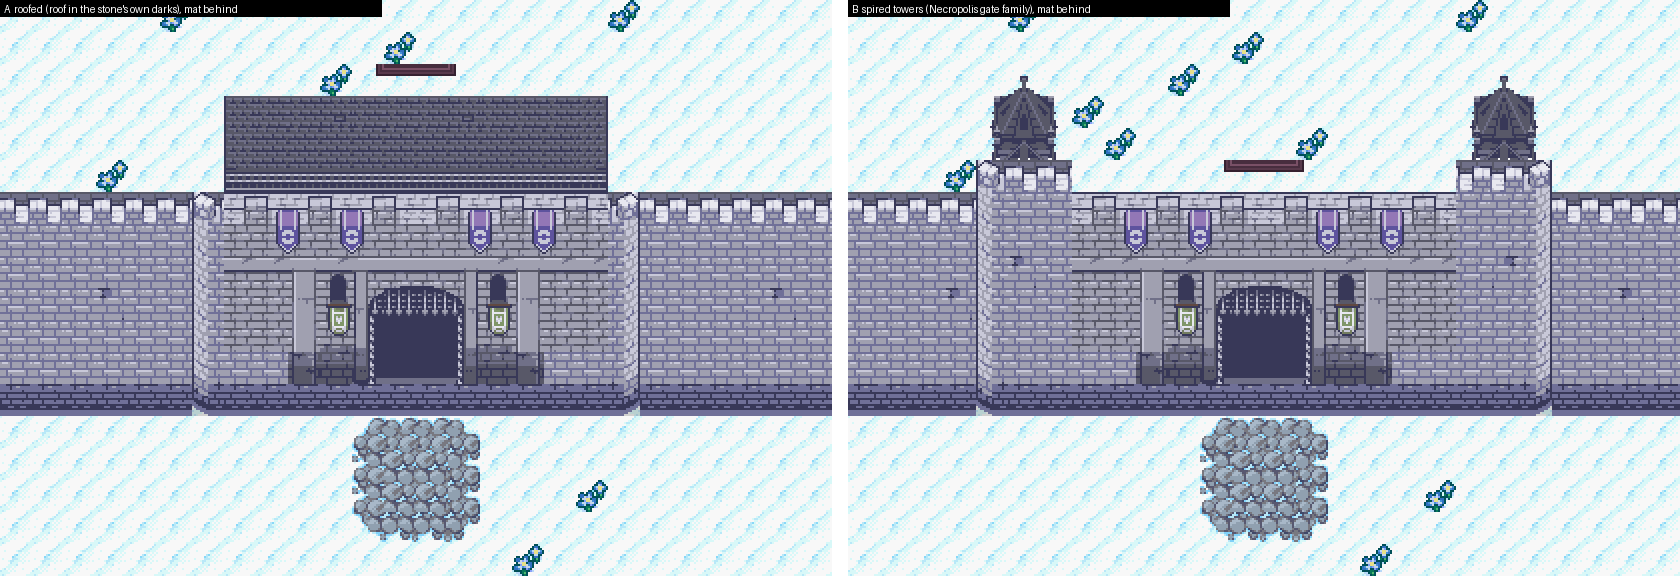
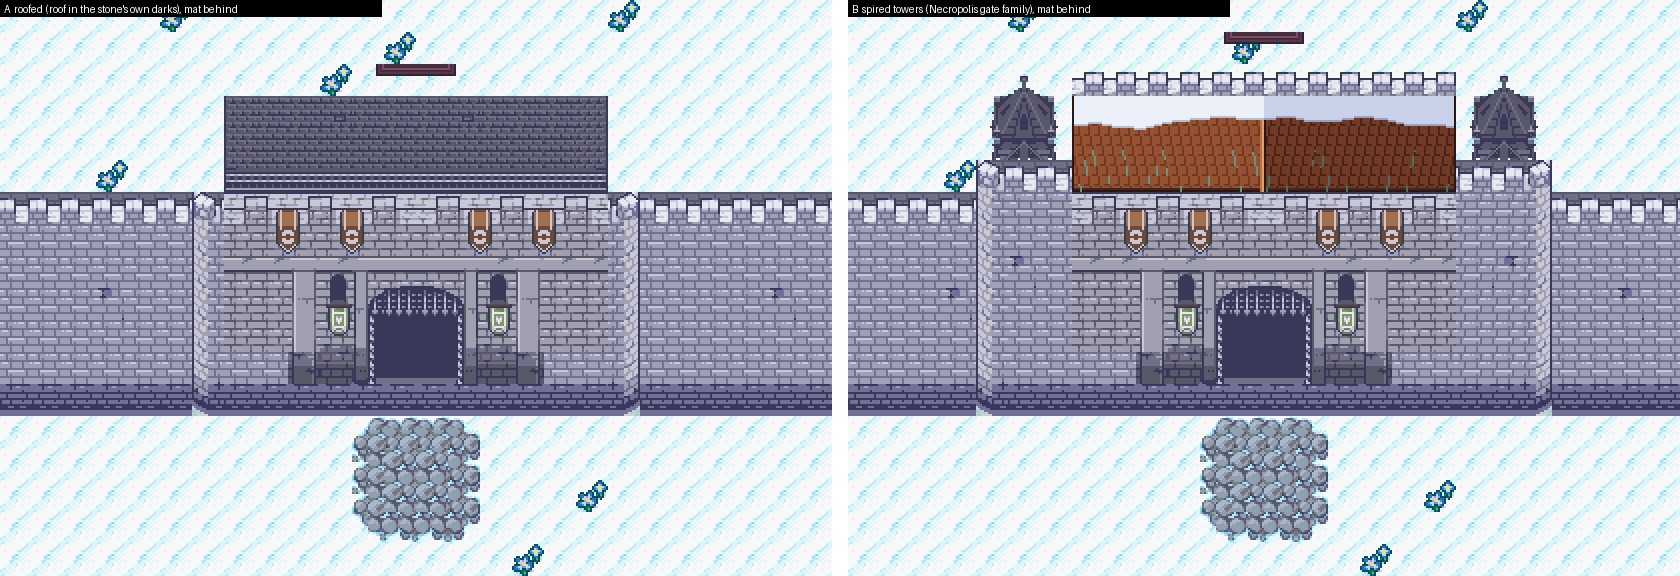
Mirroh: towered gatehouses with a copper roof; copper as Mirroh's colour
Both gatehouses in the towered style (spired towers), a pitched copper roof with snow between the towers (after Crown's cathedral). Copper (Mirroh's and House Langerin's colour, user) on the banners, the chapel roof, Langerin's roof, the far-door mat. Buildings in the lower town and the sacred terrace moved for the wider gates. Bible updated.

Claude-Session: https://claude.ai/code/session_01FHXnfqnedTHLf5QFbB3MCU

diff --git a/tools/art/mirroh/mirroh_v3.py b/tools/art/mirroh/mirroh_v3.py
@@ -45,12 +45,57 @@ def to_ef(img):
     out[col] = gloom(img, 0.25)[col]
     return out
 
+# ------------------------------------------------------------------ copper: Mirroh's colour, House Langerin's crest's
+COPPER = ((44, 22, 20), (74, 36, 26), (112, 58, 36), (150, 82, 48), (186, 112, 66), (222, 160, 108))
+PATINA = ((70, 112, 100), (96, 150, 132))
+def copper_tone(img):
+    """Anything to copper by lightness (the crest's colour)."""
+    l = _lum(img.astype(float)) / 255.0
+    lo, hi = np.array(COPPER[0], float), np.array(COPPER[5], float)
+    return (lo + (hi - lo) * np.clip((l - 0.12) / 0.75, 0, 1)[..., None]).astype(np.uint8)
+
+def to_mirroh(img):
+    """Crown's stone restoned (to_ef), its purple banners in copper."""
+    out = to_ef(img); f = img.astype(int)
+    purple = (f[..., 2] > f[..., 1] + 30) & (f[..., 0] > f[..., 1] + 10)
+    out[purple] = copper_tone(img)[purple]
+    return out
+
+def copper_roof(w, h, seed='roof'):
+    """A pitched copper roof seen from above, its ridge running back from the middle (the way the roof of Crown's
+    cathedral runs back between its towers): standing seams leaning down each slope, staggered joints, the lit west
+    slope and the shaded east one, a bright ridge, a little verdigris in the seams near the eaves. w, h in pixels."""
+    img = np.zeros((h, w, 3), np.uint8); mid = w // 2
+    for y in range(h):
+        for x in range(w):
+            west = x < mid; d = (mid - 1 - x) if west else (x - mid)
+            k = (d + y // 5) % 5                     # seams lean outward as they run down the slope
+            base, seam = (COPPER[3], COPPER[2]) if west else (COPPER[2], COPPER[1])
+            c = seam if k == 0 or (y % 5 == 4 and k in (1, 2)) else base
+            if y >= h - 2: c = COPPER[1] if y == h - 2 else COPPER[0]          # the eave
+            if k == 0 and y > h * 0.55 and rnd(seed, x // 3, y // 4) < 0.18:
+                c = PATINA[1] if west else PATINA[0]
+            img[y, x] = c
+        img[y, mid - 1] = COPPER[5]; img[y, mid - 2] = COPPER[4]; img[y, mid] = COPPER[0]
+        img[y, 0] = img[y, w - 1] = COPPER[0]
+    # snow lying on its upper slopes: a soft drift edge (depth varying smoothly along the roof), shaded east
+    knots = [10 + 7 * rnd(seed, 'k', i) for i in range(w // 12 + 2)]
+    for x in range(1, w - 1):
+        i, t = divmod(x, 12); t /= 12.0
+        depth = int(knots[i] * (1 - t) + knots[i + 1] * t)
+        for y in range(min(depth + 1, h - 3)):
+            west = x < w // 2
+            c = (236, 240, 248) if west else (200, 210, 232)
+            if y == depth: c = (176, 190, 216) if west else (150, 160, 192)
+            img[y, x] = c
+    return img
+
 # ------------------------------------------------------------------ the plan: levels
 L = np.zeros((H, W), int)                         # 0 outside; 1 lower town; 2 the square; 3 the sacred terrace
 def level(l, x0, y0, x1, y1): L[y0:y1 + 1, x0:x1 + 1] = l
 level(1, 3, 0, 56, 50)
-level(2, 7, 0, 53, 33)
-level(3, 23, 0, 50, 15)
+level(2, 6, 0, 53, 33)
+level(3, 25, 0, 50, 15)
 FACES = {1: 5, 2: 2, 3: 2}                         # face rows under each level's crenels (the city wall is tall)
 
 # ------------------------------------------------------------------ ground
@@ -173,7 +218,7 @@ def gatehouse(M, x0, ycren, style='roof', far_mat=False, tone=None):
     for dy in range(7):
         for dx in range(12):
             m = int(c[36 + dy, 20 + dx])
-            t = ef(0x21e) if dy == 6 else ef(0x20e) if m == 0x66 else to_ef(cr(m))   # (its moat-dark course: wall)
+            t = ef(0x21e) if dy == 6 else ef(0x20e) if m == 0x66 else to_mirroh(cr(m))   # (its moat-dark course: wall)
             M.ground(x0 + tw + dx, ycren + dy, t, 'gate')
     xr = x0 + tw + 12
     if style == 'roof':
@@ -199,7 +244,15 @@ def gatehouse(M, x0, ycren, style='roof', far_mat=False, tone=None):
                     if side: M.ground(xs + 2 - dx, ycren - 1 + dy, fx(ef(m)), 'gate')
                     else: M.ground(xs + dx, ycren - 1 + dy, ef(m), 'gate')
             _spires(M, xs, ycren - 4, side)
-        mx, my = x0 + 7, ycren - 1
+        # between the towers: the back wall's crenels (snow on them), then a copper roof running down to the front
+        # walk (Crown's cathedral: a pitched roof between its spired towers)
+        for dx in range(12):
+            M.ground(x0 + 3 + dx, ycren - 4, ef(0x206), 'gate')
+        roof = copper_roof(12 * 16, 3 * 16)
+        for dy in range(3):
+            for dx in range(12):
+                M.ground(x0 + 3 + dx, ycren - 3 + dy, roof[dy * 16:dy * 16 + 16, dx * 16:dx * 16 + 16], 'gate')
+        mx, my = x0 + 7, ycren - 5
     if far_mat:
         mat(M, mx, my, 4, tone or crimson_tone)
 
@@ -253,7 +306,21 @@ def chapel(M, x0, y0):
             0x6f, 0x77, 0x18, 0x19, 0x10, 0x11, 0x12, 0xc, 0xd, 0x2e, 0x2f, 0x36, 0x37)
     b = cut('c32', 26, 1, 9, 12, ground=C32G, ring=False, rows=[1, 2, 3, 4, 7, 8, 9, 10, 11, 12, 13, 14])
     for dx in range(3, 6): b[0][dx] = b[1][dx] = None   # (above the roof's peak: the cathedral's woods, not ours)
-    M.place(b, x0, y0, 'chapel', fn=lambda i: to_ef(slate_roof(i)))
+    M.place(b, x0, y0, 'chapel', fn=copper_roofs)
+
+def copper_roofs(img):
+    """Crown's verdigris-green roofs to Mirroh's copper (a touch of the green kept in the darkest seams); the rest
+    restoned."""
+    f = img.astype(int); green = (f[..., 1] > f[..., 0] + 28) & (f[..., 1] > f[..., 2] + 12)   # (the roof, not its green-grey stone)
+    out = to_ef(slate_roof(img)); cu = copper_tone(img); out[green] = cu[green]
+    return out
+
+def langerin(M, x0, y0):
+    """House Langerin's town house: Crown's long townhouse, its slate roof in the family's copper."""
+    def tone(i):
+        f = i.astype(int); blue = (f[..., 2] > f[..., 0] + 18)
+        out = gloom(i, keep_snow=False); out[blue] = copper_tone(i)[blue]; return out
+    M.place(cut('c33', 15, 10, 7, 6), x0, y0, 'house', fn=tone)
 
 def fence(M, x0, x1, y, gaps=()):
     mm.fence(M, x0, x1, y, gaps)
@@ -292,7 +359,7 @@ def compose():
     # yard in the square. L3 snowier than L2 (deeper uphill).
     for l, snows in ((2, [blob(14, 24, 4, 3, 'a'), blob(48, 13, 2, 4, 'b'), blob(12, 13, 3, 2, 'c'),
                           rrect_cells(22, 21, 38, 31, 3), blob(44, 30, 3, 1, 'd'), blob(20, 31, 3, 1, 'e')]),
-                     (3, [blob(33, 7, 6, 5, 'gy'), blob(46, 13, 3, 1, 'f'), blob(26, 13, 2, 1, 'g')])):
+                     (3, [blob(36, 7, 5, 6, 'gy'), blob(46, 13, 3, 1, 'f'), blob(26, 13, 2, 1, 'g')])):
         cells = lv(l); S = set()
         for b in snows: S |= b
         S = thick(S & cells)
@@ -315,7 +382,7 @@ def compose():
     C &= lv(1)
     cobbles(M, C)
     # a small frozen pond by the cottages (the same ice, its snow drifting onto it)
-    pond = rect(18, 45, 22, 47); pondyard = rect(16, 43, 24, 49) - rect(24, 43, 24, 43)
+    pond = rect(17, 45, 19, 47); pondyard = rect(15, 43, 21, 49)
     snow_on(M, thick(pondyard - pond), icef, pondyard, 'snow')
     for c in pond: M.gtag[c[1], c[0]] = 'ice'
     # --- L0 (outside): the cobbled way up from Hollow Hill to the south gatehouse
@@ -325,28 +392,28 @@ def compose():
     walls(M)
     stair(M, 15, 33); stair(M, 44, 33)                               # lower town -> square
     stair(M, 37, 15)                                                 # square -> sacred terrace
-    gatehouse(M, 24, 50, far_mat=True)                                 # south, from Hollow Hill
-    gatehouse(M, 8, 3)                                               # north-west, to the mountain
+    gatehouse(M, 22, 50, style='towers', far_mat=True, tone=lambda i: copper_tone(i))   # south, from Hollow Hill
+    gatehouse(M, 7, 4, style='towers')                               # north-west, to the mountain
     necro_gate(M, 39, 0)                                             # north-east, to the Necropolis
 
     # --- L3: the chapel, its graveyard loose among small pines on the snow, the way to the Necropolis gate
-    chapel(M, 24, 1)
-    graves = [(34, 2), (37, 3), (34, 5), (37, 6), (34, 9), (37, 10), (40, 12), (47, 12), (48, 10)]
+    chapel(M, 26, 1)
+    graves = [(36, 2), (38, 4), (36, 6), (38, 8), (36, 10), (40, 12), (43, 13), (47, 12), (48, 10)]
     for x, y in graves: mm.headstone(M, x, y)
-    for x, y in ((36, 7), (45, 12)): mm.pine(M, x, y, False)
+    for x, y in ((38, 11), (45, 12)): mm.pine(M, x, y, False)
     # --- L2: the Tavern (west), House Langerin's town house between its gargoyles (east), benches by the ice
     mm.tavern(M, 9, 22)
-    mm.c33_house(M, 'long', 43, 21); mm.gargoyle(M, 41, 24); mm.gargoyle(M, 50, 24)
+    langerin(M, 43, 21); mm.gargoyle(M, 41, 24); mm.gargoyle(M, 50, 24)
     for x, y in ((24, 30), (36, 30)): bench(M, x, y)
     for x, y in ((12, 12), (17, 25)): mm.pine(M, x, y, False)
     # --- L1: cottages west, the market east (Crown's shop and a townhouse), barrels, a bench
-    mm.ef_house(M, 5, 43); mm.c33_house(M, 'small', 11, 43)
-    mm.c33_house(M, 'shop', 46, 43); mm.c33_house(M, 'long', 37, 43)
-    mm.barrels(M, 51, 47); mm.barrels(M, 44, 47); mm.barrels(M, 44, 48); bench(M, 26, 44)
-    for x, y in ((17, 43), (53, 44), (4, 33), (55, 34)): mm.pine(M, x, y, False)
+    mm.ef_house(M, 4, 43); mm.c33_house(M, 'small', 9, 43)
+    mm.c33_house(M, 'shop', 49, 43); mm.c33_house(M, 'long', 41, 43)
+    mm.barrels(M, 54, 46); mm.barrels(M, 48, 48); mm.barrels(M, 54, 47); bench(M, 26, 44)
+    for x, y in ((20, 43), (4, 33), (55, 34)): mm.pine(M, x, y, False)
     for x, y in ((4, 2), (54, 6), (4, 19), (54, 23)): mm.pine(M, x, y, True)
     for x, y in ((6, 11), (55, 15), (5, 27)): rock(M, x, y)
-    fence(M, 5, 16, 49, gaps=(9,)); fence(M, 45, 54, 49, gaps=(49,))
+    fence(M, 4, 14, 49, gaps=(9,)); fence(M, 41, 54, 49, gaps=(47,))
     # --- L0: the slope outside, pines in clumps, rocks under the snow
     for x0, y0 in ((0, 2), (57, 4), (0, 15), (57, 18), (0, 28), (57, 31), (0, 41), (57, 44), (1, 56), (54, 56),
                    (8, 58), (18, 57), (38, 58), (47, 57), (24, 59), (34, 59)):
@@ -358,7 +425,7 @@ def compose():
         if M.free(x, y, 1, 1): rock(M, x, y)
     # --- lamps: at every stair's foot, the gates, the Tavern's and Langerin's doors, along the street
     for x, y in ((13, 37), (17, 37), (42, 37), (46, 37), (35, 12), (39, 12), (28, 41), (35, 41), (27, 57), (34, 57),
-                 (22, 10), (38, 10), (49, 11), (19, 28), (47, 27), (7, 41), (52, 41)):
+                 (13, 11), (19, 11), (49, 11), (19, 28), (47, 27), (7, 41), (52, 41)):
         if M.free(x, y, 1, 2, ground=('snow', 'pave', 'cobble')): mm.lamp(M, x, y)
         else: print('no room for a lamp at', x, y)
     return M

diff --git a/bible/20_chapter1_build.md b/bible/20_chapter1_build.md
@@ -181,7 +181,7 @@ Chapter 1 is the template: once its foundations (mechanics, maps, buildings, NPC
 - **The ice path and the church after the blast (user design 2026-11-19), built (stage 1 + the stage-3 puzzle, user: the two combined for this piece).** **The church after Eden's blast** is a second layout of the same hall map (`LAYOUT_PELLUCA_TEMPLAR_HALL_RUINED`), swapped in by the hall's on-transition script once **`FLAG_DR_CHURCH_BLASTED`** is set (the blast scene, stage 4): the split through the gold medallion with frost round it, the old fault's cracks in wall and carpet, the cracked stained glass (three in the great window, one across the girl's face; two in each lancet) and the cell doorway caved in under MonoMyth's Mt. Thunder rubble (`blast_mock.py`, approved); no long crack from the rubble to the split (tried, dropped, user: unnatural and not needed). Everything else plays as the intact hall: its collision, its exit, and its side tables' tops over the player, read from the intact layout. The four split cells drop the player (Mt. Pyre's fall-through-the-hole) onto the ice path's landing; the cell door is dead and the fallen stone in front of it solid. **The ice path** (`PellucaIcePath`, 16x24, `icepath_mock.py`, approved): the landing, the 12x9 thin-ice field (86 ice cells, 22 ice boulders, a unique route from the landing to the gate), the ice wall and its gate, and the shrine: the half-thawed Arceus statue between the fossilised log benches, fire rings and blue flowers, and the three stone tusk arches like a ribcage before it. **The puzzle** runs on vanilla's Sootopolis-gym step callback (`STEP_CB_SOOTOPOLIS_ICE`, `VAR_ICE_STEP_COUNT`), which `src/field_tasks.c` now points at this map's own cracked/broken metatiles on this layout (`METATILE_PellucaIcePath_*`, written by the build into `metatile_labels.h`; the Sootopolis row-var bookkeeping kept to the gym). All 86 cracked (count 87): the gate's ice gives way (`SE_ICE_STAIRS`), the field refreezes solid (special `DrIcePathFreeze`: safe ice, no behaviour) and **`FLAG_DR_ICE_PATH_SOLVED`** is set; a second step on a cracked cell: the ice breaks, the player drops through, black screen, back on the landing with a fresh field. Every full load of the map rebuilds a fresh field and count when unsolved (special `DrIcePathReset`; a continued save would otherwise restore cracked cells in view), and the solved state (gate open, refrozen field) when solved. **Ways out:** the ladder in the shrine's corner, and (added in the build, so the player is never stuck before solving) **the Templars' rope** hanging beside the landing; both bring the player up just south of the split (hall warp 2). The ribs stand free: only each leg's foot is solid, the rest of each rib is drawn over the player, so he walks under and between them. Map type underground. Flags: `FLAG_DR_CHURCH_BLASTED` = 0x901, `FLAG_DR_ICE_PATH_SOLVED` = 0x902. Built by `tools/art/icepath/build_icepath.py` and `tools/art/templar/build_ruined.py` (with `imgtiles.py`; `tools/art/academy/tilefit.py` merges the statue's rarest near-shades so each 8x8 tile fits one palette, no visible change); `CHURCH_TEST_BLASTED=1` builds a test ROM that sets the flag on entering the hall. **Verified in the emulator** (test build): city -> ruined hall -> the cell door blocked -> into the split -> the landing; a second step on a cracked cell -> reset to the landing; the rope up and back down; the solution walked -> gate open, field refrozen -> the shrine -> the ladder up -> back down the split: still solved, the field crossed back and forth without falling. Normal build: the intact hall unchanged (city -> hall -> cell -> hall -> city; the split cells inert). *Stage 3-4, still to do:* the blast scene that sets the flag, the Templar's remark on the cold, the Sparkling Opal and the discovery, the Archbishop's scene, the leave-the-Valley block, dialogue for the fall (the field's black-out is silent for now).
 - **The shrine's awakening and the Sparkling Opal (user design 2026-11-20), built.** With the field solved, **pressing A on the Arceus statue** awakens the holy power of the site: dramatic music starts at the touch (**Rayquaza Appears**, `MUS_RAYQUAZA_APPEARS`; user: something awe-inspiring), a rumble, **the ice melts off the statue** (five frames, a little meltwater left at its foot), **the seal breaks in a holy flash** (fade to white and back) with **Arceus's cry echoing** (the cry's chorus mode under a heavy mixer reverb: specials `DrPlayEchoCry` / `DrEndEchoCry`), **the two fire rings beside the logs light** one after the other in **holy sapphire-and-white flame** (user's pick over warm firelight; animated, four frames on dedicated tiles: `InitTilesetAnim_PellucaIcePath`), and the music ends. Then Osrid (portrait, his private nameplate): "Something fell down out of the ice... Could this be...!!", and **"Osrid found the Sparkling Opal!"** with the key-item fanfare and its description popup. The statue stays thawed and the fires lit (`FLAG_DR_STATUE_AWAKENED` = 0x909, restored on every load). **Sparkling Opal** (`ITEM_SPARKLING_OPAL`, key item): its bag icon drawn in `awaken_mock.py` (a milky opal with a rainbow patchwork of play of colour, user); bag text (three lines fit): "Fell from the ice of / an Arceus statue. It / shimmers as if alive." (the user's description, "A gleaming opal that fell from the ice around an ancient Arceus statue. Its colours shift as if alive.", is too long for the bag window; it can be the text when the item is first shown or examined). **What happens to it (user 2026-11-20, canon):** when the player goes back up and shows it to **Archbishop Ambrose**, he gives them the **Warding Ring** with massive enthusiasm (a key item that, worn, keeps wild Pokémon away: a Repel switched on and off at will): Sparkling Opals appear only where Arceus has set foot in the material realm, the Templars have sought one for centuries, and this is the first physical proof of Arceus found in centuries as far as he knows. The player also gets the bravery reward (Never-Melt Ice / Metal Coat / Soft Sand). Stage 4: the scene; the Ring's mechanic to be built with it. **Ice path music (user):** the cave plays **MonoMyth's Old Headquarters theme** (Old Town's Old HQ, where the gang leader with the Bug Pokémon is fought): MonoMyth song 677 ported note for note by `tools/monomyth/port_song.py` (tracks, the voices it uses, its two samples; credit MonoMyth) as `MUS_DR_OLD_HQ` (song 631). **Church crack** (user): the long fresh crack from the cell rubble to the split is gone. Built by `build_icepath.py` with `awaken_mock.py` (melt frames, flames, icon); the statue's cells across all the melt frames share 26 colours (`tilefit.reduce_joint`) so the room still fits 13 palettes. **Verified in the emulator** (test build): the cave plays the Old HQ theme; A on the statue plays the whole sequence (music switches to Rayquaza Appears and back, the melt, the flash, both fires, the line, the item into Key Items); leaving and coming back: statue thawed, fires lit and flickering (four distinct frames).
 - **Route 11 and Hollow Hill: layouts approved (user 2026-11-20).** **Route 11** (45x30, west from Pelluca's west road): Pelluca's pines and cobble road carry on at the east end (the seam to Pelluca uses Pelluca's own Cormoria tiles), farmland in the middle (a thatched farmhouse with a fenced yard, cabbage rows, a sown field, hay; fenced flower rows and tall grass south of the road), tan cliffs stepping down along the north, a cliff-flanked little cove on the south coast, and at the west end the road becomes a dirt track into cooler dark woods running on into Hollow Hill (the Eiscue scene on that track). Art: Crown's seaside farm village (3.1) and dark woods (3.25), Odyssey's farm (0.232); Pisces' Brumist Cliffs / Zotpyre Village (snowy in the ROM) and Odyssey's terraced hill as layout ideas. **Hollow Hill** (about 50x50; **its theme (approved by the user 2026-11-20, "perfect"):** Ghost Grey's Route 1 theme re-arranged as `MUS_DR_HOLLOW_HILL` by `tools/music/arrange_hollow_hill.py`: slowed from 124 to 64 bpm, on the soft pedal piano, no percussion, with a ghostly far-off voice echoing the tune (a sine tone first, heard as beeps: replaced) (wind was tried and taken out: it came across as static) in the bars where the song falls quiet; credit Ghost Grey): woods rising in three rings, each a cliff step up, to a central rock knoll; the path in from Route 11 climbs the rings by stairs to **the sealed tunnel door** at the knoll's foot; the north exit to Mirroh leaves from the outer ring (Glaive there); the Eiscue and the 1v2 on the outer ring; **very foggy, with a generally spooky, unsettling feeling** (user 2026-11-20). **The summit is late-game** (unlocked only with Valkeerin/Keerin in the party; the trip to the distant future and the Red fight happen there; 19_location_atlas.md). **Hollow Hill will be revisited and added to over the whole game** (many secrets, met in pieces): its layout and its tileset keep room for more (hidden burrow mouths placed now as scenery that can later open, the summit area behind the sealed door, spare palette and tile room in its tileset). **Revision (user 2026-11-20, after the first mock):** Route 11 is **about twice as long (about 90x30)**; the **Ivy River's thin western branch** (as on the illustrated region map, coming down from the north past the Necropolis just west of Pelluca) **crosses Route 11 near its Pelluca end and runs down to the beach and the sea; the road crosses it on a bridge**; the **grass shifts gradually** from Pelluca's light mint to the darker temperate greens of Hollow Hill's woods (shades reaching into each other in patches, as MonoMyth's and Crown's route boundaries do; tree kinds mixing before they change). Design rule: no tree or object ever cut, stacked into another or bleeding into buildings, cliffs or water (docs/chapter1_workflow.md). **Mock v2 (2026-11-20):** the river drops through a chasm in three falls (the middle one under the bridge), over the coastal cliff into a rock pool, and a stream bends west over the sand to the sea; the beach is a cove between cliff walls, split by the stream. **Steps down to the west beach (user 2026-11-20)** are cut into the coastal cliff just west of the bridge (stone stairs, two wide: Pelluca's own stair tiles, as in its sea wall): the beach holds **at least one trainer**, and more may go there later. The east beach (between the stream and Pelluca's pines) has no way down yet: **revisit later (user 2026-11-20).** **Built (2026-11-20):** `MAP_ROUTE11` (layout 90x40: five rows of woods, the chasm and the sea added above and below the approved picture, out of the player's reach, so the camera never shows past the edge), connected to Pelluca's west road (Route 11's road rows 19-21 = Pelluca's 28-30). Its own secondary tileset (`gTileset_Route11`, 7 palettes: grass, broadleaf woods, farm, cottage and hay, bridge, cliffs, river and pines on sage) under Pelluca's primary; Pelluca's own metatiles wherever a cell is one. Crowns of trees are walked behind; tall grass is tall grass (no encounter table yet: stage 5); the river in the chasm is solid, the stream and the sea need Surf. **Story gate (provisional):** stepping onto Pelluca's west edge is stopped with Osrid's line ("Cadmus told me to meet him at the church..." after the blast, a general line before it) until the shrine is awakened; stage 4 sets the real condition. **Music (user 2026-11-20):** MonoMyth's Route 15 theme (`MUS_DR_MM_ROUTE15`): a classic Pokémon route theme, reworked, a bright contrast before spooky Hollow Hill. Credit: MonoMyth (its music). **Pelluca Valley's main theme (user 2026-11-20):** Pokémon Crown's route theme (its song 292, `MUS_DR_CROWN_PELLUCA`), replacing Lilycove's, **in the piano version the user chose** (`MUS_DR_CROWN_PELLUCA_PIANO`: our pedal piano for its guitar, harp, clarinet and flute, standalone; the original as ported was removed, user: the remix is better). Credit: Pokémon Crown (its music). **Cold-open music (user 2026-11-20):** MonoMyth's "A Legend Unfolds" (`MUS_DR_LEGEND_UNFOLDS`; in MonoMyth it plays when Fabrizia's museum in North Edelweiss tells the legend of Athanto's Pokémon) plays from Tenebris's notes through Cadmus's letter until Osrid docks in Pelluca, replacing "Far Horizons". Credit: MonoMyth (its music). **Loops checked in the game (2026-11-20):** Pelluca's theme, Route 11's, the cold open's and Hollow Hill's each play through their loop point and come back in step with their loop start (every track loops at the same point). **Sound engine (2026-11-20):** 12 sampled voices instead of 5, as MonoMyth uses (the songs from MonoMyth and Crown play up to 10-12 notes at once; with 5 they cut each other off). **Hollow Hill mock v3 (user 2026-11-20: "quite good"):** `tools/art/hollowhill/hh_mock.py`, renders in `assets/hollowhill_reference/`. Art: Pokémon Odyssey's haunted forest (its maps 0.94/0.95/0.97: teal floor, dark pines, dead trees, stumps, logs, red mushrooms, dark tall grass, burrow hollows, grey stone terraces and stairs, the sealed blue door); credit Odyssey. Layout 66x64 (the hill about 40x37; the extra width is the east edge, where Route 11's olive ground and Crown woods darken and mix into the teal and the pines over about ten columns; Route 11's row = Hollow Hill's row - 24, its track on rows 43-45). Ring edges drawn by Odyssey's own terrace grammar, two bands per ring, three for the knoll. **The way through (user 2026-11-20):** the woods floor is closed into sections by trees running up to the cliffs (north-west corner, north, east, south), and ring 2 reaches out west and east to ring 1's edge, cutting ring 1 into a north and a south half, so **the player can never go round the hill: from Route 11 up ring 1, up ring 2 (the sealed door, or over), down the north side to the north woods and the exit to Mirroh.** Eight stairs, four per ring (south faces, and north edges with the steps drawn down-facing) link the sections: the clearing (Eiscue, the 1v2) is its own section with its own stairs; the north-east woods are a dead-end pocket (room for an item or a secret). The mock checks this each run: with ring 2's stairs closed the north is out of reach; with ring 1's closed the woods sections do not join. The void pits with red eyes were dropped (they read as ponds). **Later (user 2026-11-20):** Hollow Hill keeps being worked on through the game, e.g. **a cool ruined structure on the top**, since it truly is an ancient and arguably cursed place. **Colours (user 2026-11-20):** the woods and their floor an **off-white, creepy bone** (Odyssey's pines, floor and tall grass recoloured one for one), the cliffs a **sinister stone, dark and light mixed** (near-black violet shade, charcoal faces, bone-pale lit edges), so Hollow Hill stands out even in the fog; trunks, red mushrooms and the sealed door's cold blue kept. At the east edge Route 11's green woods pale toward bone over three columns of trees (`hh_mock.py` BONE, tint). **Built (2026-11-20):** `MAP_HOLLOW_HILL` (layout 66x64; `tools/art/hollowhill/build_hollowhill.py` from `hh_mock.py`, mock v8), connected to Route 11's west edge (Hollow Hill's row = Route 11's + 24; the track on rows 43-45). **The seam:** Hollow Hill's columns 58-65 are Route 11's own columns 1-8 (the same blocks; its woods' pattern carried up above Route 11's top), and its tileset (`gTileset_HollowHill`, under Pelluca's primary) keeps Route 11's 24 seam metatiles, their 69 tiles and its two palettes (grass, broadleaf woods: slots 6-7) at the same ids, numbers and slots, so each map draws the other's edge right. Its own: 208 metatiles, 437 tiles, 5 palettes (floor, pines and wood, stone and blood, Crown's woods paled, the door and mushrooms). **The tiles are nearly full** (4 of 512 spare): the webs and the blood are built as repeating pieces (a few drip and blot patterns, one garland per spacing of trees) to fit; later additions (the ruins on top, burrows that open) are best as their own maps behind the sealed door and the burrows, or by trimming the webs/the olive-to-bone shades. Cliffs solid, stairs walkable, tree crowns walked behind, webs drawn over the player, the dark tufts are tall grass (no encounter table yet: stage 5). Weather `WEATHER_FOG_HORIZONTAL`, **thinned for Hollow Hill** (src/field_weather_effect.c: 6/16 over 13/16 instead of 12/16 over 8/16, so the bone woods are not washed out; other foggy maps unchanged); music `MUS_DR_HOLLOW_HILL`; `MAPSEC_DR_HOLLOW_HILL`. The way north runs off the top edge (the Mirroh area is next; no connection yet). Walked in the emulator from Route 11 up both rings, to the door, down the north side to the way north, and to the clearing. **The Hollow Hill guardian (user 2026-11-20; a special quest later in the game):** the personification of the haunted energy that has gathered round Hollow Hill for many years, so strong it **reanimated the dead body of an Araquanid as its vessel**: a custom **undead Araquanid**, a blood bubble for its water bubble, a skull-like face, skeletal limbs and body. Still **Water/Bug**, ability **Water Bubble**; about **level 65**; exceptionally strong: starts the fight at **+1 Attack, Defense, Special Defense and Speed**. It holds the **Reaver's Fang**, which the player gets by defeating it. **Reaver's Fang (held item; user 2026-11-20):** (1) the holder heals **25% of the physical or special damage it deals**; (2) when an enemy's physical or special attack damages the holder, the holder **heals 25% of that damage and the same amount is dealt back to the attacker**; (3) recoil the holder inflicts on itself is lifestolen at 25% too (user, first description; no attacker to hit back). **One of the strongest held items in the game**, which is why it **cannot be had until after midgame** (the guardian's quest is post-midgame). The blood webs across Hollow Hill are signs of its power over the woods. **Not catchable** (user 2026-11-20): it is only cursed energy possessing and working the corpse of a dead Pokémon. **Art:** the user will help make the base art for the assistant to modify further, and may let the assistant try the design when the time comes. OPEN: a new form with its own stats or Araquanid with the boosts; the quest. **Unsettling throughout (user 2026-11-20):** the pines' bone shades go to a **sinister grey** in their depths; **blood-like stains** run down the cliffs from their tops and soak into the stone in blots (more round the sealed door); **Blood-red webbing in MonoMyth's Webbed Woods style, hung across the trees** (user 2026-11-20: a web on each tree looked strange; hang them across more of the trees, more naturally; webs on actual groups of trees, never in the open): sheets of web sag from tree to tree along the woods' edges (the north and south treelines, garlands from each crown to the next at about the same height, two or three threads deep, laced by MonoMyth's zig-zags, torn threads trailing), bulge out from tree to tree down the west woods' side and the trees closing the way east, link pines standing near each other or near a woods' edge (the pair on ring 1), MonoMyth's big sagging net across the narrow way north, small round webs only in the dead tree's branches and in the V between the trees closing the way south. Drawn a pixel at a time in the webbing's two colours (MonoMyth's, made old-blood red); the net is MonoMyth's (`web_net.png`, 0x886DD5C). Credit MonoMyth. **The blood webs mean something (user 2026-11-20):** they are signs of the **Hollow Hill guardian's** power over the woods (below).
-- **Mirroh (user 2026-11-20/21; zone plan v2, `tools/art/mirroh/layout_sketch.py`, `assets/mirroh_reference/`).** Where Crown's medieval architecture really starts. **A mix of a Crown village and MonoMyth's Fort Elderflower** (user): a **walled city climbing the slope** of the massif in three terraces (Elderflower's crenellated terrace walls that jog with the slope, stone stairs staggered so the way winds up), Crown's timber and thatch cottages with fenced gardens below. **Light snow in the lower town, deeper uphill. Gothic, gloomy and wintry:** roofs recoloured to dark slate, iron lanterns, Crown's dragon statues darkened to gargoyles, banners in House Langerin's colours, a graveyard. **Ghost Grey's Opal Village** (user: loves its reflecting ice; study its landscape and indoor/outdoor tiles): sheets of **reflecting ice** sunk in brick rims (one in the square, one in the lower town), **dark icy streets with sparkles**, snowbanks held by brick retaining walls; its houses and museum halls for the interiors (greyscale: to be coloured). Zones: outside the **south gate** Hollow Hill's bone woods carry on (the seam), thinning to snowy pines; **lower town** (cottages, gardens, ice sheet); **middle terrace**, the square (the **Tavern**, like Pelluca's, **recoloured to the dark slate look**, user; a market hall, stalls, the ice sheet); **upper terrace** (deep snow): a gothic chapel and its graveyard (the seed of DM's Mirroh Base Camp graveyard), **House Langerin's town house** (user: yes). **Two ways out north (user):** a **north-west path** further north out of town, and a **separate north-east path to the Necropolis** (its own map uphill). **Gatehouses (user 2026-11-21):** Mirroh is guarded: people may not come and go as they please. **Two walk-through gatehouse buildings with guards** (enter one side, pass the guards inside, leave by the other; interior maps): the **south gatehouse** between Hollow Hill and the city proper, and the **north-west gatehouse** on the route toward the mountain, the Templar HQ and beyond. The **north-east path to the Necropolis is open** (no gate; the Necropolis keeps its own entrance). **Plan approved by the user ("basically perfect").** **Gates, decided (user 2026-11-21):** the **south and north-west gatehouses are roofed gatehouse buildings** in the style of Ghost Grey's and Crown's walk-through gates (slate roof behind the crenels, a stone front with banners, a portcullis door between lanterns, round towers either side; Crown's castle gate restoned in Elderflower's stone). The south one's far door, on the city side, is **a short flight of steps up from the gatehouse** (the city is uphill; user: "yes"). Their **hallway maps** follow North Edelweiss's gate hallway (MonoMyth): a dark doorway at the top, a crimson runner, guard desks facing each other, benches and plants, the mat at the foot, in Mirroh's cold stone (`tools/art/mirroh/gate_hall.py`). **The north-east way to the Necropolis is a standalone skull gate** (user's idea: Elderflower's skull keep door, "rebuilt as a standalone gate with a new top"): the skull arch under a crenellated walk between two round towers capped with the gothic spires of Crown's cathedral; no guards; you walk through the dark arch onto the Necropolis map. **Mock v3 (2026-11-21, `tools/art/mirroh/mirroh_v3.py`):** the city as Elderflower-style terraces drawn from a level map (each terrace narrower than the one below, its own crenellated front wall with round-tower ends, parapets down its sides, its paving shaded under them), snow lying on the paving in drifts, the reflecting ice set in snowy yards (the snow drifting onto the ice, no rim), cobbled lanes in the lower town; every borrowed building cut out of its source cleanly (only the source's true ground removed).
+- **Mirroh (user 2026-11-20/21; zone plan v2, `tools/art/mirroh/layout_sketch.py`, `assets/mirroh_reference/`).** Where Crown's medieval architecture really starts. **A mix of a Crown village and MonoMyth's Fort Elderflower** (user): a **walled city climbing the slope** of the massif in three terraces (Elderflower's crenellated terrace walls that jog with the slope, stone stairs staggered so the way winds up), Crown's timber and thatch cottages with fenced gardens below. **Light snow in the lower town, deeper uphill. Gothic, gloomy and wintry:** roofs recoloured to dark slate, iron lanterns, Crown's dragon statues darkened to gargoyles, banners in House Langerin's colours, a graveyard. **Ghost Grey's Opal Village** (user: loves its reflecting ice; study its landscape and indoor/outdoor tiles): sheets of **reflecting ice** sunk in brick rims (one in the square, one in the lower town), **dark icy streets with sparkles**, snowbanks held by brick retaining walls; its houses and museum halls for the interiors (greyscale: to be coloured). Zones: outside the **south gate** Hollow Hill's bone woods carry on (the seam), thinning to snowy pines; **lower town** (cottages, gardens, ice sheet); **middle terrace**, the square (the **Tavern**, like Pelluca's, **recoloured to the dark slate look**, user; a market hall, stalls, the ice sheet); **upper terrace** (deep snow): a gothic chapel and its graveyard (the seed of DM's Mirroh Base Camp graveyard), **House Langerin's town house** (user: yes). **Two ways out north (user):** a **north-west path** further north out of town, and a **separate north-east path to the Necropolis** (its own map uphill). **Gatehouses (user 2026-11-21):** Mirroh is guarded: people may not come and go as they please. **Two walk-through gatehouse buildings with guards** (enter one side, pass the guards inside, leave by the other; interior maps): the **south gatehouse** between Hollow Hill and the city proper, and the **north-west gatehouse** on the route toward the mountain, the Templar HQ and beyond. The **north-east path to the Necropolis is open** (no gate; the Necropolis keeps its own entrance). **Plan approved by the user ("basically perfect").** **Gates, decided (user 2026-11-21):** the **south and north-west gatehouses are roofed gatehouse buildings** in the style of Ghost Grey's and Crown's walk-through gates (slate roof behind the crenels, a stone front with banners, a portcullis door between lanterns, round towers either side; Crown's castle gate restoned in Elderflower's stone). The south one's far door, on the city side, is **a short flight of steps up from the gatehouse** (the city is uphill; user: "yes"). Their **hallway maps** follow North Edelweiss's gate hallway (MonoMyth): a dark doorway at the top, a crimson runner, guard desks facing each other, benches and plants, the mat at the foot, in Mirroh's cold stone (`tools/art/mirroh/gate_hall.py`). **The north-east way to the Necropolis is a standalone skull gate** (user's idea: Elderflower's skull keep door, "rebuilt as a standalone gate with a new top"): the skull arch under a crenellated walk between two round towers capped with the gothic spires of Crown's cathedral; no guards; you walk through the dark arch onto the Necropolis map. **Revised (user 2026-11-21):** both gatehouses take **the towered style** (option B: three-wide round towers a row taller than the gate, capped with the Necropolis gate's spires; no steps, the south one's far door a mat on the city side behind it), and **between the towers a pitched copper roof** with snow on its upper slopes, running back from the front walk to the back crenels, the way the roof of Crown's cathedral runs between its spired towers (user: no roof at all looked strange). **Copper is Mirroh's main colour and House Langerin's crest's** (user): used as the contrast to the dark slate and the snow wherever it makes sense: the gatehouse roofs, the banners (Crown's purple ones in copper), the chapel's roof (Crown's verdigris roof in copper, a little green left in its seams), House Langerin's town house roof, the hallway runners and mats (copper rather than red: red is generic). **Mock v3 (2026-11-21, `tools/art/mirroh/mirroh_v3.py`):** the city as Elderflower-style terraces drawn from a level map (each terrace narrower than the one below, its own crenellated front wall with round-tower ends, parapets down its sides, its paving shaded under them), snow lying on the paving in drifts, the reflecting ice set in snowy yards (the snow drifting onto the ice, no rim), cobbled lanes in the lower town; every borrowed building cut out of its source cleanly (only the source's true ground removed).
 - **Chapter 1 asset references (user 2026-11-19), for later: nothing built yet.** **Permissions and credits (user 2026-11-19):** Pokémon Crown (Blah and the Crown team) and Pokémon Ghost Grey Version EX (JoeyZeed) are used with permission; credit them in the notes alongside MonoMyth, Pokémon Odyssey and the Pokémon Rejuvenation team. Sources earmarked while surveying Pokémon Crown (FireRed hack by Blah and the Crown team; `tools/crown/README.md`, renders in `assets/crown_reference/`), MonoMyth, Dreamstone Mysteries and Rejuvenation:
   - **Mirroh Necropolis entrance:** Crown's curved palisade gate (walled capital, map group 3 #3, cells x43-54 y5-13), recoloured sinister (slate stone, charred wood, tarnished bronze arch, spectral banners) with graveyard/gothic ornament, as the grand entrance down into the catacombs (user). Catacomb levels: Crown's underground stone halls (group 6 #8: tiered walls, cobwebs, pillars, plank bridges over a chasm, a sealed chamber) and its sewer (group 7 #11), recoloured. Graves: DM's Mirroh Base Camp Graveyard headstones (metatile 0x3A5 in LAYOUT_MIRROH_BASE_CAMP_GRAVEYARD) and MonoMyth Speedwell's wooden cross markers (metatiles 0x39, 0xA6); dead stumps from MonoMyth's Haunted Swamp; Crown's cobwebs; Rejuvenation's iron candle stands with ghost-coloured flames; Crown's dragon statues darkened into gargoyles. **Underground catacombs (user, primary reference):** Pokémon Ghost Grey Version EX's Lavender Town catacombs (by JoeyZeed; `tools/ghostgrey/README.md`, renders in `assets/ghostgrey_reference/`): six chambers with grave niches, demon-face reliefs and chasm crossings, ending in a pillared chamber with a sealed gate (the Distortion gate's room). They are greyscale and need a proper palette.
   - **Templar Headquarters ("Templar Citadel", Mt. Mirroh):** Crown's gothic cathedral on its moat island with timber chalets (group 3 #2), with an alpine/snow treatment and perhaps an outer wall.
